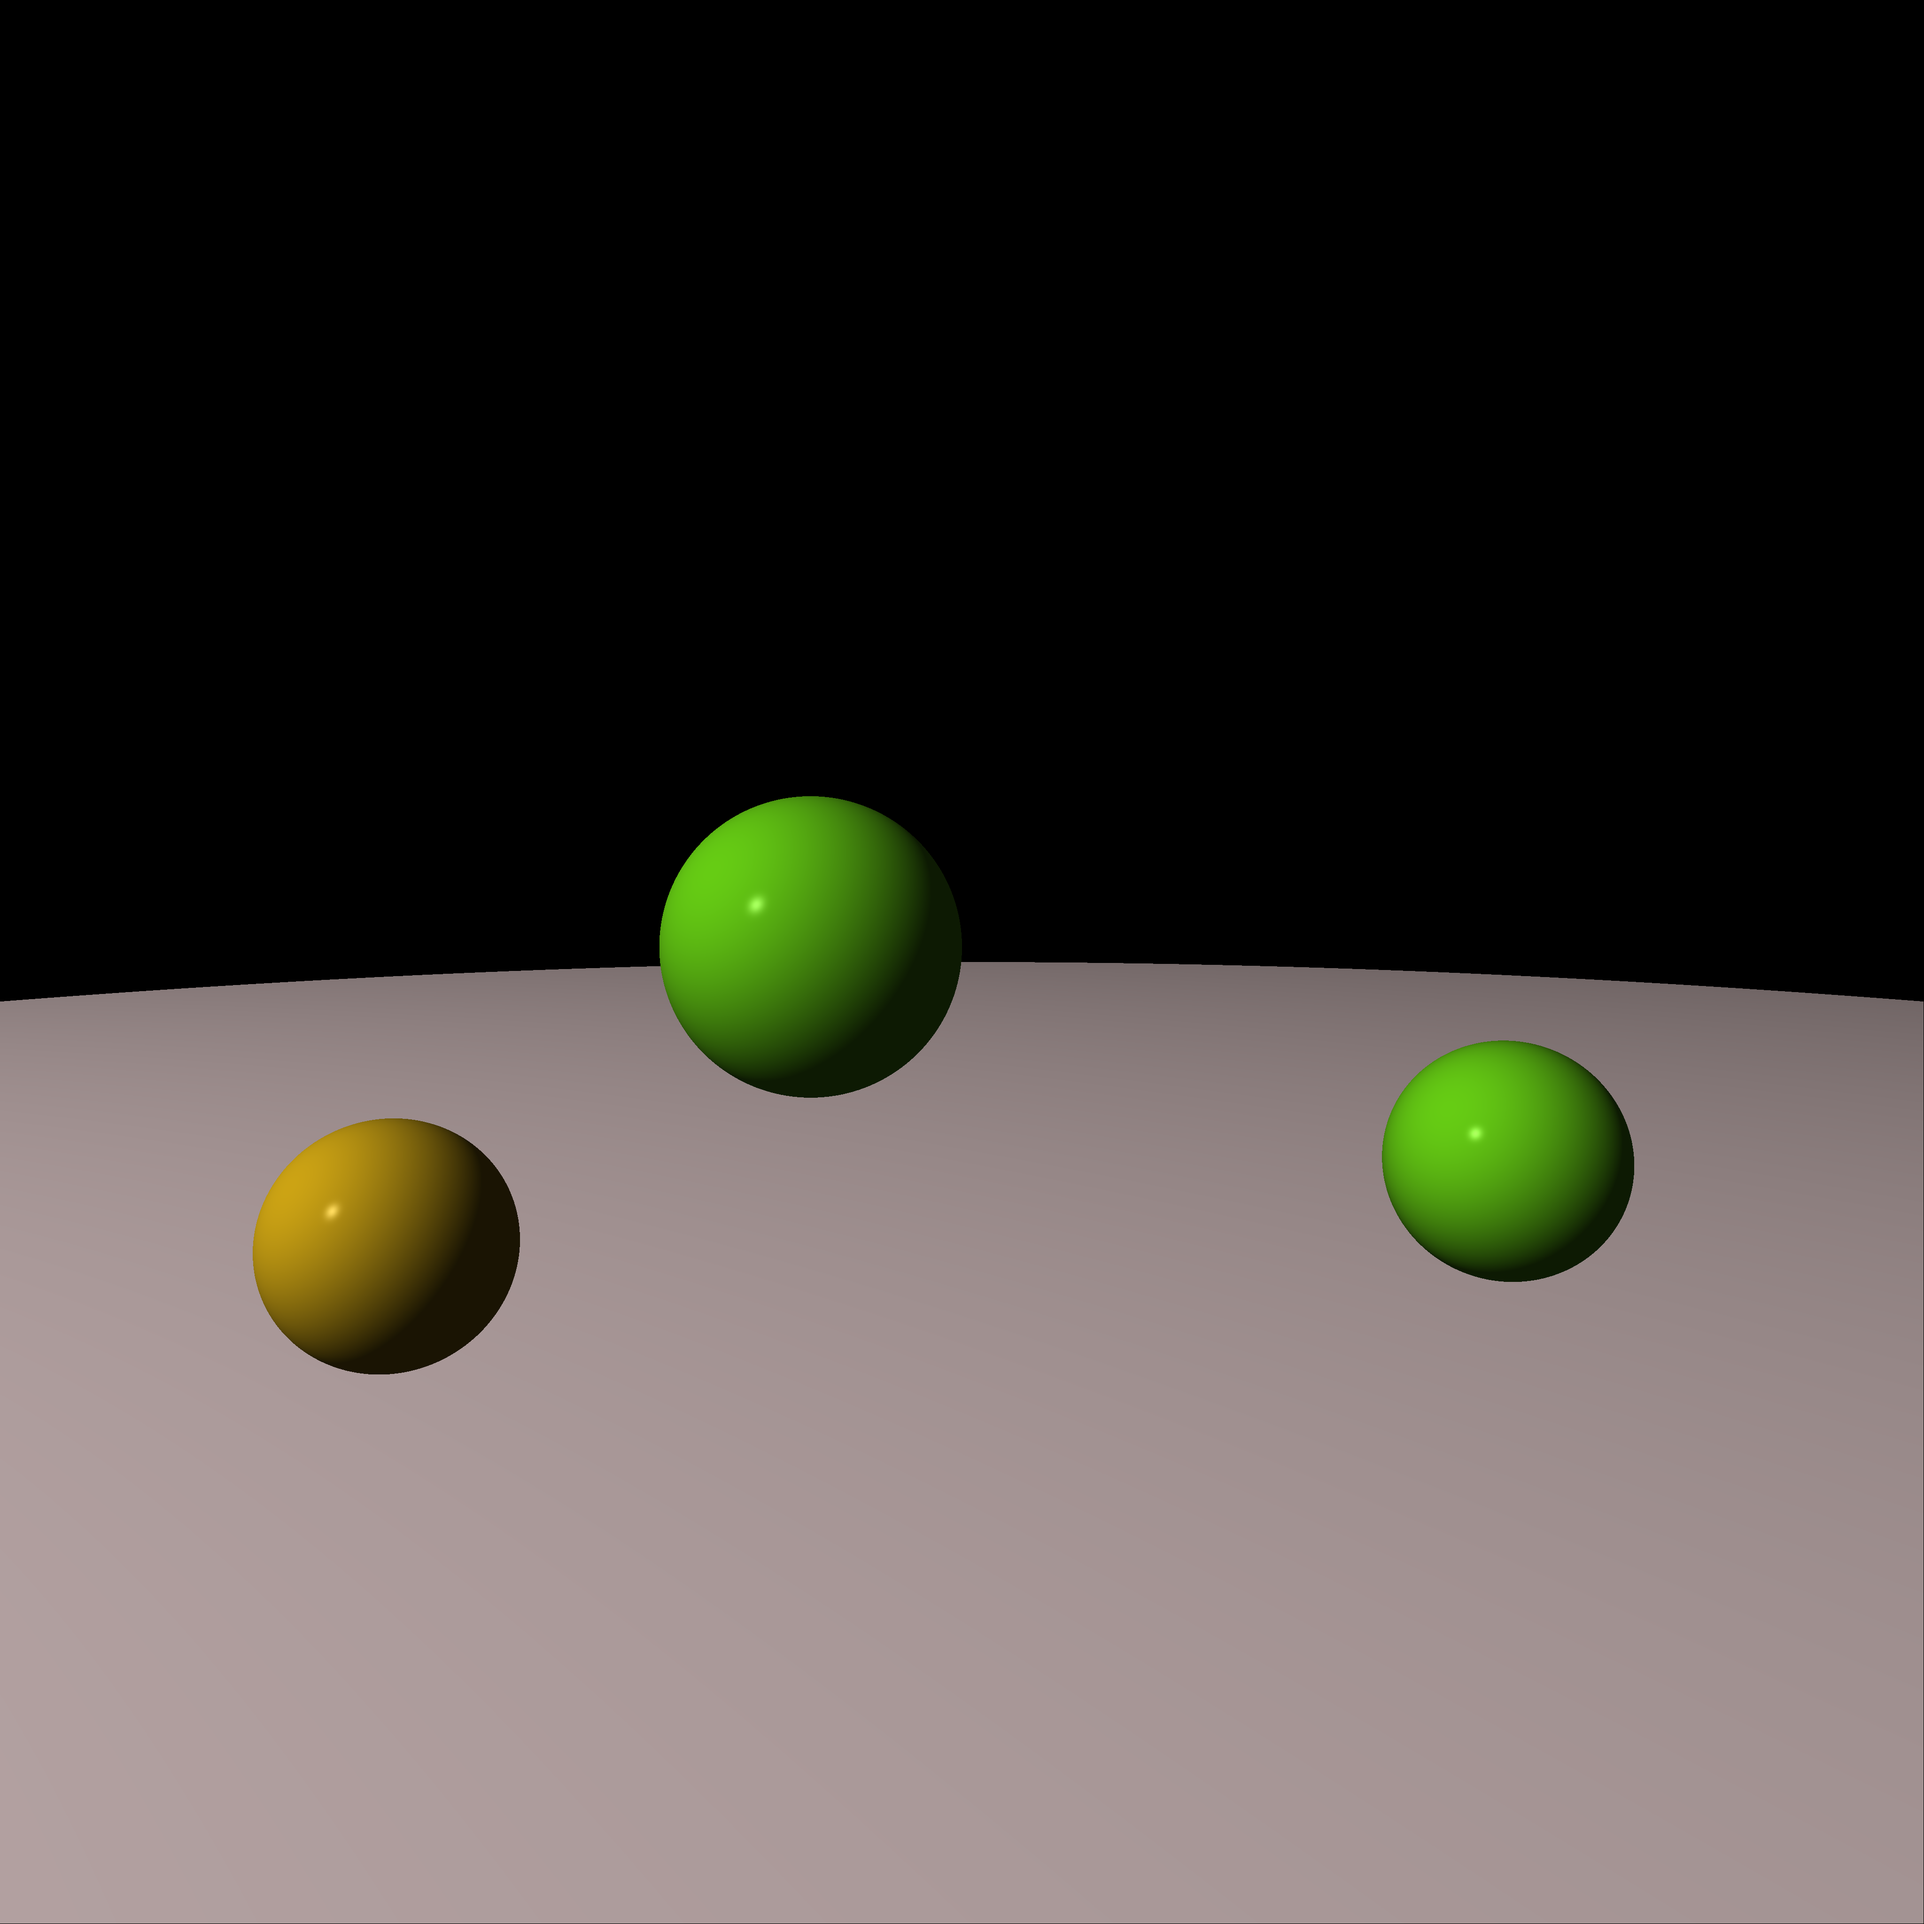
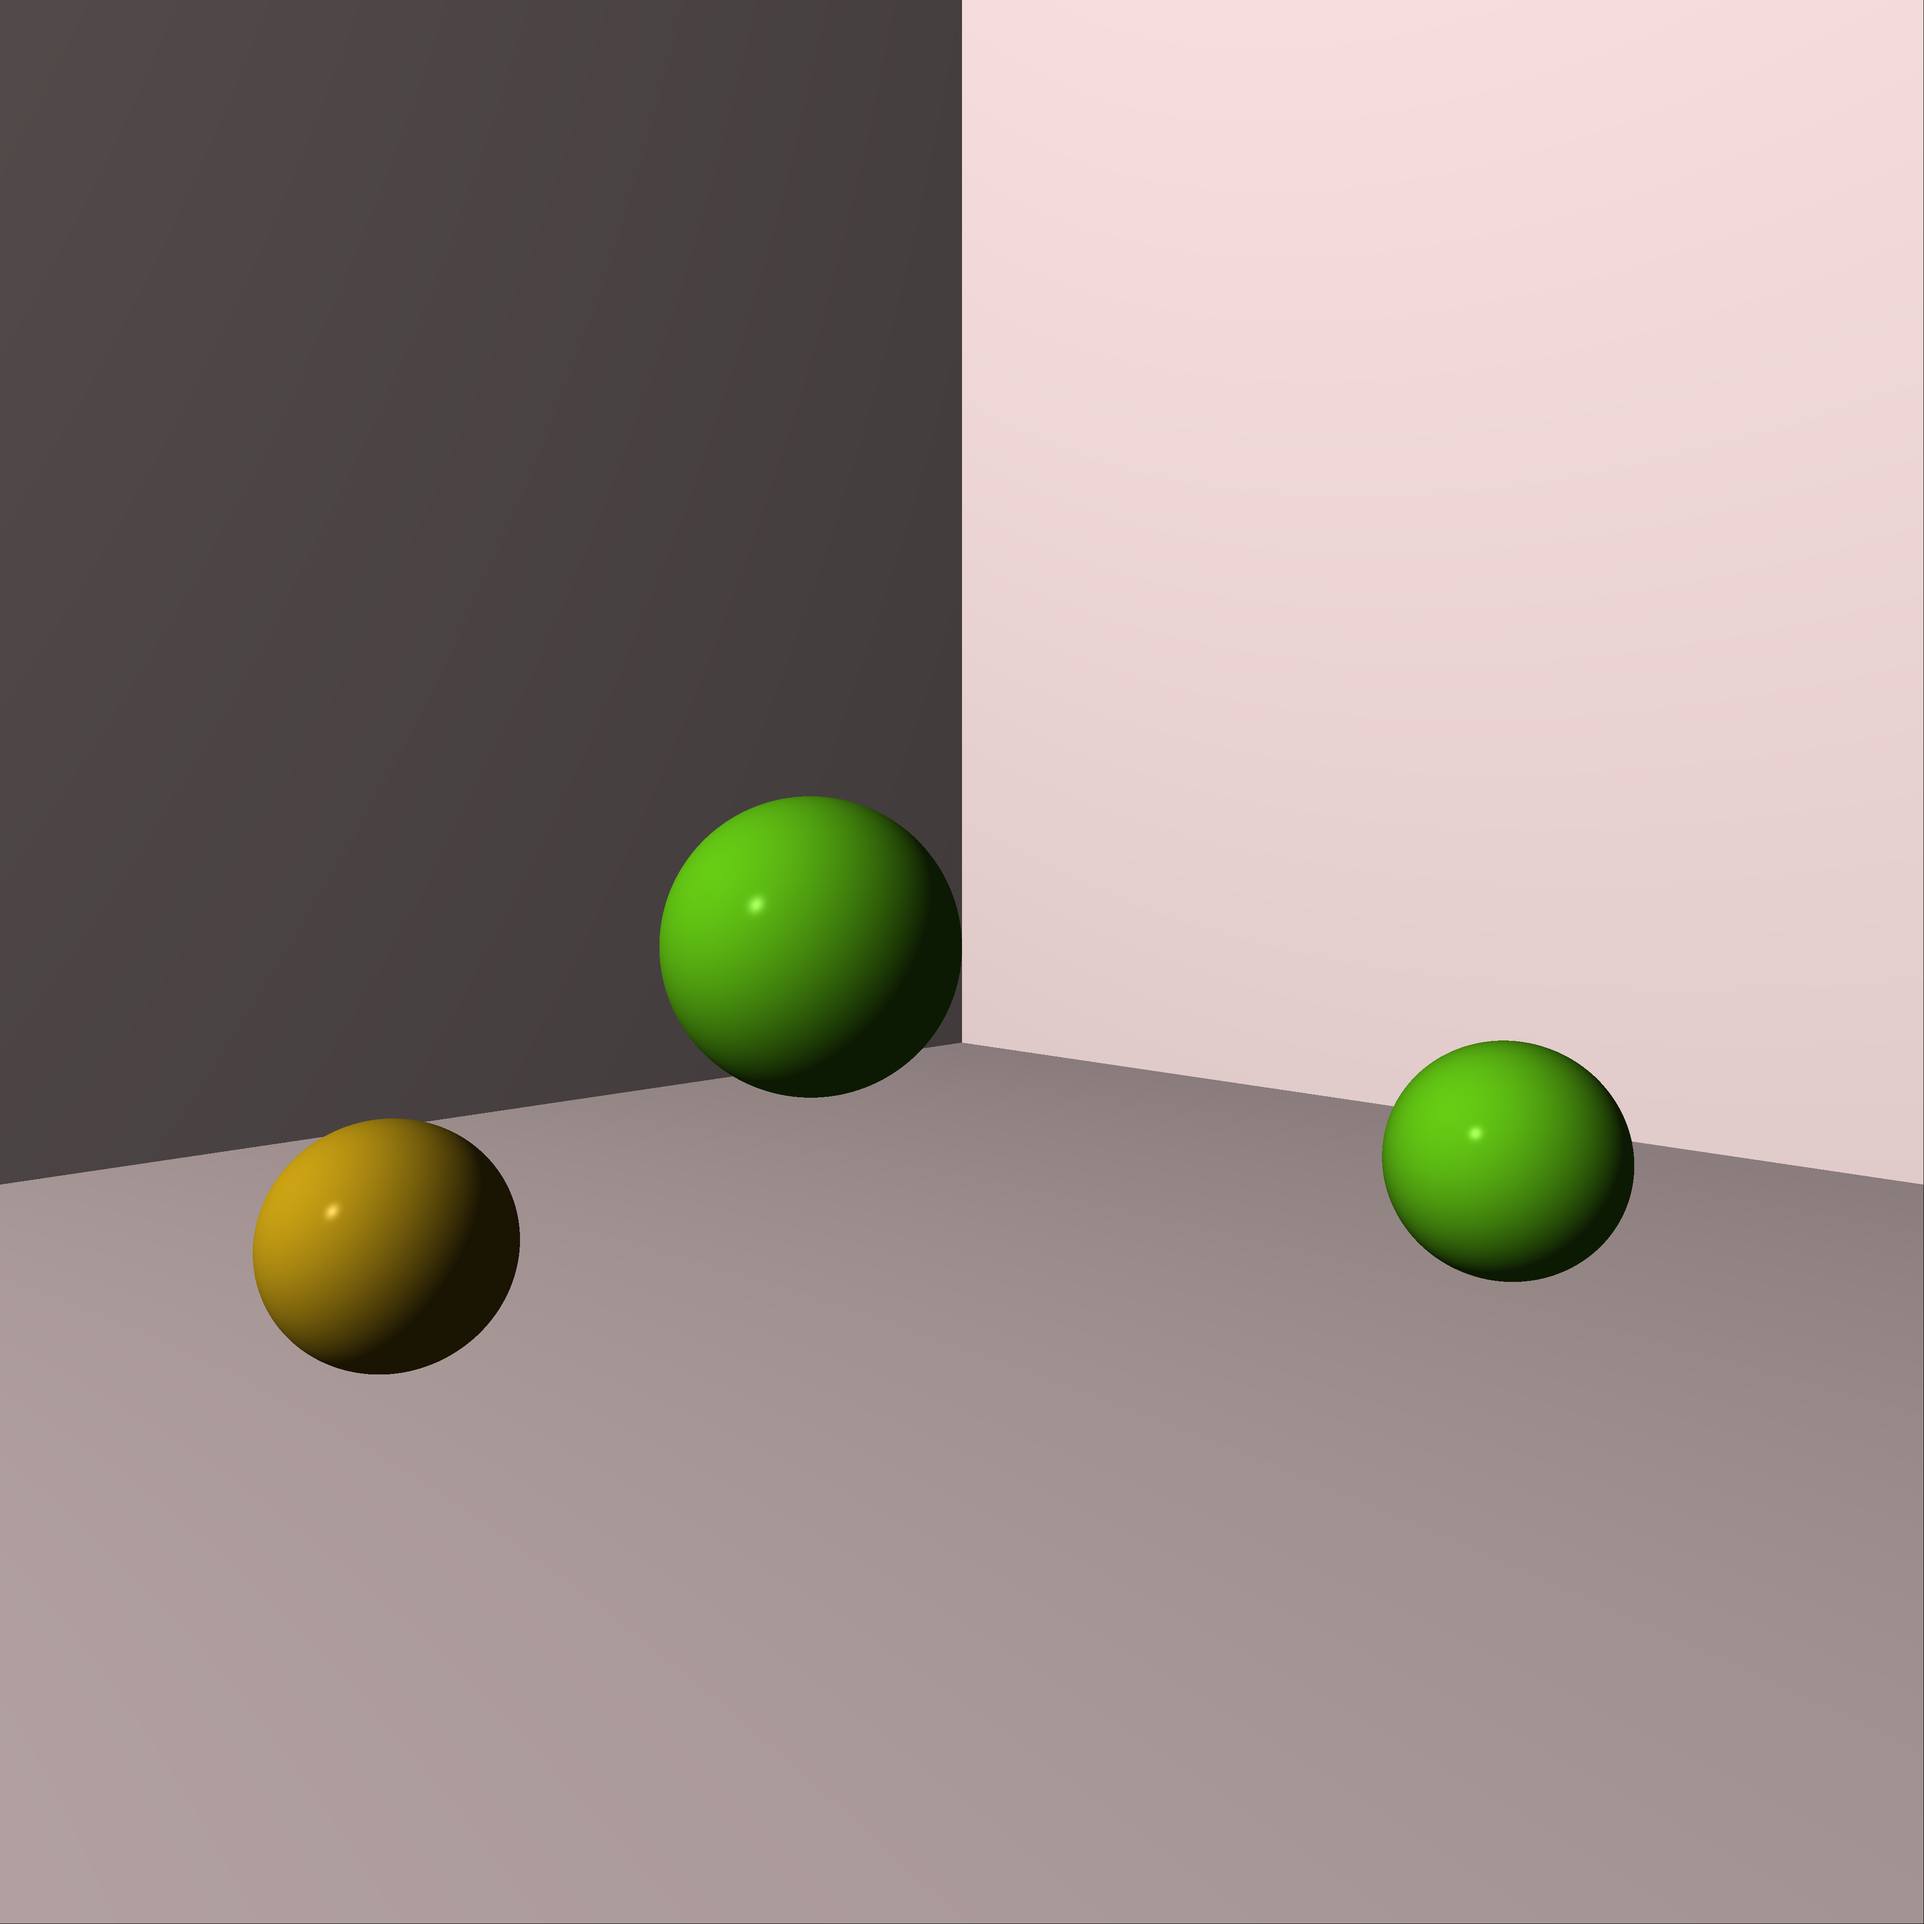
Fix chapter 7 example scene

diff --git a/src/bin/chapter_07.rs b/src/bin/chapter_07.rs
@@ -13,18 +13,13 @@ fn main() {
   let floor_transform = Matrix::scaling(10.0, 0.01, 10.0);
   let floor = Sphere::new(floor_transform, floor_material);
 
-  let left_wall_transform = Matrix::identity()
-    .translate(0.0, 0.0, 5.0)
-    .rotate_y(-PI / 4.0)
-    .rotate_x(PI / 2.0)
-    .scale(10.0, 0.01, 10.0);
+  let left_wall_transform = Matrix::translation(0.0, 0.0, 5.0)
+    * Matrix::rotation_y(-PI / 4.0) * Matrix::rotation_x(PI / 2.0) * Matrix::scaling(10.0, 0.01, 10.0);
   let left_wall = Sphere::new(left_wall_transform, floor_material);
 
-  let right_wall_transform = Matrix::identity()
-    .translate(0.0, 0.0, 5.0)
-    .rotate_y(PI / 4.0)
-    .rotate_x(PI / 2.0)
-    .scale(10.0, 0.01, 10.0);
+  let right_wall_transform = Matrix::translation(0.0, 0.0, 5.0)
+    * Matrix::rotation_y(PI / 4.0) * Matrix::rotation_x(PI / 2.0)
+    * Matrix::scaling(10.0 ,0.01, 10.0);
   let right_wall = Sphere::new(right_wall_transform, floor_material);
 
   let middle_material = Material {
